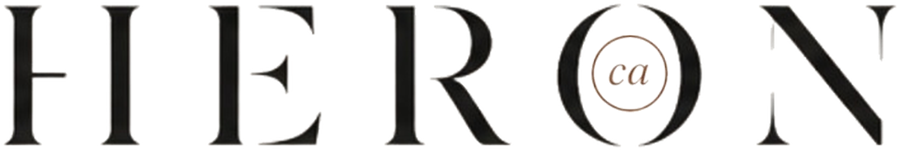
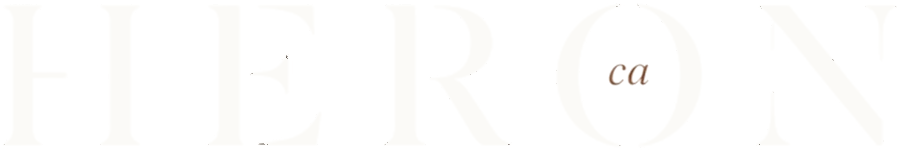
Add files via upload

diff --git a/assets/heron.js b/assets/heron.js
@@ -7,8 +7,8 @@ const HERON = {
     ["eBay", "https://www.ebay.com/usr/heronca", "ebay.com"],
     ["Poshmark", "https://poshmark.com/closet/heronca", "poshmark.com"],
     ["Vinted", "https://www.vinted.com/member/3172628125-heronca1", "vinted.com"],
-    ["Mercari", "", "mercari.com"],
-    ["Depop", "", "depop.com"],
+    ["Mercari", "https://www.mercari.com/u/heronca/", "mercari.com"],
+    ["Depop", "https://www.depop.com/heronca/", "depop.com"],
     ["Etsy", "", "etsy.com"],
     ["Facebook", "", "facebook.com"],
   ],
@@ -72,7 +72,7 @@ function chrome() {
   document.body.insertAdjacentHTML("beforeend", `
   <footer><div class="wrap"><img class="logo-f" src="/assets/heron-footer.png" alt="Heron CA"><div class="caps">Vintage. New. Ours.</div>
   <div class="small">Also find us on</div><div class="links">${HERON.links.filter((l) => l[1]).map(([n, u, d]) => `<a class="plat" href="${u}" target="_blank" rel="noopener"><img src="https://www.google.com/s2/favicons?domain=${d}&sz=64" alt="" width="20" height="20">${n}</a>`).join("")}</div>
-  <div class="small"><a href="/about.html">About</a> · <a href="/about.html#returns">Returns</a> · <a href="/about.html#visit">Visit</a><br>517 Ocean Front Walk, Unit 6, Venice, CA 90291 · Open daily 11:00 to 5:30<br><a href="tel:+13235776677">(323) 577-6677</a> · <a href="mailto:info@heronca.com">info@heronca.com</a></div></div></footer>
+  <div class="small"><a href="/about.html">About</a> · <a href="/about.html#returns">Returns</a> · <a href="/about.html#visit">Visit</a><br>517 Ocean Front Walk, Unit 6, Venice, CA 90291 · Open daily 11:00 to 5:30<br><a href="mailto:info@heronca.com">info@heronca.com</a></div></div></footer>
   <div class="drawer" id="drawer"><div class="shade" onclick="closeBag()"></div><div class="panel">
   <div class="head" style="margin:0"><h2>Your bag</h2><button class="chip" onclick="closeBag()">Close</button></div>
   <div class="rows" id="bagRows"></div><div class="sum" id="bagSum"></div>
@@ -82,6 +82,10 @@ function chrome() {
   const here = new URLSearchParams(location.search).get("c") || "";
   $("#cats").innerHTML = [["", "All"], ...HERON.categories.map((c) => [c, c])].map(([v, l]) => `<a class="${v === here && location.pathname.length <= 11 ? " on" : ""}" href="/${v ? "?c=" + encodeURIComponent(v) : ""}">${l}</a>`).join("");
   renderBag();
+  const tr = $(".marquee .track");
+  if (tr) { let x = 0, last = 0, paused = false; tr.parentElement.onmouseenter = () => paused = true; tr.parentElement.onmouseleave = () => paused = false;
+    const step = (t) => { if (last && !paused) { x -= (t - last) * 0.04; const half = tr.scrollWidth / 2; if (-x >= half) x += half; tr.style.transform = `translateX(${x}px)`; } last = t; requestAnimationFrame(step); };
+    requestAnimationFrame(step); }
 }
 function openBag() { $("#drawer").classList.add("open"); renderBag(); }
 function closeBag() { $("#drawer").classList.remove("open"); }

diff --git a/about.html b/about.html
@@ -5,7 +5,7 @@
 <link rel="icon" href="/assets/heron-ca.png">
 <link rel="preconnect" href="https://fonts.googleapis.com"><link rel="preconnect" href="https://fonts.gstatic.com" crossorigin>
 <link href="https://fonts.googleapis.com/css2?family=Cormorant+Garamond:wght@400;500&family=Jost:wght@400;500&display=swap" rel="stylesheet">
-<link rel="stylesheet" href="/assets/heron.css?v=7"></head>
+<link rel="stylesheet" href="/assets/heron.css?v=8"></head>
 <body>
 <section class="hero"><div class="wrap about"><div class="caps">About Heron CA</div>
   <h1>We go looking so<br>you don't have to.</h1>
@@ -36,7 +36,7 @@
     <div class="cols">
       <div class="box"><h3>Secure checkout</h3><p>Payments run through Square. We never see or store your card details. Card, Apple Pay and Google Pay are accepted.</p></div>
       <div class="box"><h3>Packed by hand, shipped from Venice</h3><p>Every order is packed at the shop and ships from Venice, CA 90291 with tracking. US shipping is free over $80.</p></div>
-      <div class="box"><h3>Ask us anything first</h3><p>Want another photo, a measurement or a closer look at a detail? Call or text (323) 577-6677 or email info@heronca.com before you buy.</p></div>
+      <div class="box"><h3>Ask us anything first</h3><p>Want another photo, a measurement or a closer look at a detail? Email info@heronca.com or message us on Instagram @heron.ca before you buy.</p></div>
     </div>
     <p class="small" style="margin-top:16px">You can also find the same pieces on eBay, Poshmark, Vinted and other marketplaces, where we have a track record with buyers.</p>
   </section>
@@ -51,7 +51,7 @@
     <div class="visit" style="margin:18px 0 0">
       <div><p><b>Heron CA</b><br>Gingerbread Court #6<br>517 Ocean Front Walk, Unit 6<br>Venice, CA 90291</p>
         <p>Open every day, 11:00 to 5:30</p>
-        <p>Call or text <a href="tel:+13235776677">(323) 577-6677</a><br><a href="mailto:info@heronca.com">info@heronca.com</a></p>
+        <p><a href="mailto:info@heronca.com">info@heronca.com</a><br>Instagram <a href="https://www.instagram.com/heron.ca/" target="_blank" rel="noopener">@heron.ca</a></p>
         <a class="btn alt" style="max-width:260px" target="_blank" rel="noopener" href="https://maps.google.com/?q=517+Ocean+Front+Walk+Venice+CA+90291">Get directions</a></div>
       <iframe loading="lazy" title="Map" src="https://maps.google.com/maps?q=517%20Ocean%20Front%20Walk%2C%20Venice%2C%20CA%2090291&z=16&output=embed"></iframe>
     </div>
@@ -60,6 +60,6 @@
 
   <section style="text-align:center"><h2>You won't find it twice.</h2><a class="btn" style="max-width:280px;margin:0 auto" href="/">Shop the stock</a></section>
 </main>
-<script src="/assets/heron.js?v=7"></script>
+<script src="/assets/heron.js?v=8"></script>
 <script>chrome();</script>
 </body></html>

diff --git a/assets/heron.css b/assets/heron.css
@@ -60,7 +60,7 @@ nav.cats a.on,nav.cats a:hover{color:var(--ink);border-bottom-color:var(--ink)}
 .story{max-width:620px;margin:0 auto 72px;text-align:center}
 .story p{font-size:16px;color:var(--muted)}
 footer{background:var(--ink);color:#fff;padding:48px 0 40px;text-align:center}
-footer .logo-f{height:34px;width:auto;margin:0 auto 14px;filter:invert(1)}
+footer .logo-f{height:34px;width:auto;margin:0 auto 14px}
 footer .links{display:flex;flex-wrap:wrap;justify-content:center;gap:8px 22px;margin:14px 0}
 footer .links a{text-decoration:none;opacity:.9}
 footer .links a:hover{opacity:1;text-decoration:underline}
@@ -108,14 +108,13 @@ footer .small{color:rgba(255,255,255,.6)}
 .menu a{text-decoration:none;color:var(--muted)}.menu a:hover{color:var(--ink)}
 @media(max-width:560px){.menu{gap:12px;font-size:13px}.menu a:last-child{display:none}.right{gap:12px}}
 .marquee{overflow:hidden;background:var(--ink);color:#fff;border-bottom:1px solid var(--line)}
-.marquee .track{display:flex;width:max-content;animation:heron-slide 45s linear infinite}
-.marquee:hover .track{animation-play-state:paused}
+.marquee .track{display:flex;width:max-content;will-change:transform}
 .marquee a{display:inline-flex;align-items:center;gap:8px;padding:11px 18px;text-decoration:none;font-size:13.5px;white-space:nowrap}
 .marquee a:hover{text-decoration:underline}
 .marquee img{border-radius:4px;background:#fff}
 .marquee .dot{opacity:.4;align-self:center;font-size:11px}
 @keyframes heron-slide{from{transform:translateX(0)}to{transform:translateX(-50%)}}
-@media(prefers-reduced-motion:reduce){.marquee .track{animation:none}}
+
 .about h1{font-family:'Cormorant Garamond',Georgia,serif;font-weight:400;font-size:clamp(40px,6vw,72px);line-height:1;margin:10px 0 18px}
 .about .lead{font-size:18px;max-width:640px;color:var(--muted)}
 .about section{padding:48px 0;border-top:1px solid var(--line)}

diff --git a/thanks.html b/thanks.html
@@ -3,10 +3,10 @@
 <title>Thank you · Heron CA</title><link rel="icon" href="/assets/heron-ca.png">
 <link rel="preconnect" href="https://fonts.googleapis.com"><link rel="preconnect" href="https://fonts.gstatic.com" crossorigin>
 <link href="https://fonts.googleapis.com/css2?family=Cormorant+Garamond:wght@400;500&family=Jost:wght@400;500&display=swap" rel="stylesheet">
-<link rel="stylesheet" href="/assets/heron.css?v=7"></head>
+<link rel="stylesheet" href="/assets/heron.css?v=8"></head>
 <body>
 <main class="wrap"><section class="story" style="margin-top:56px"><div class="caps">Order received</div><h2>Thank you.</h2>
 <p>Your receipt is on its way to your email. We pack every order by hand at the shop and send tracking as soon as it ships. If you chose pickup, it will be waiting for you at 517 Ocean Front Walk.</p>
 <a class="btn alt" style="max-width:260px;margin:0 auto" href="/">Keep browsing</a></section></main>
-<script src="/assets/heron.js?v=7"></script><script>chrome(); bag.set([]);</script>
+<script src="/assets/heron.js?v=8"></script><script>chrome(); bag.set([]);</script>
 </body></html>

diff --git a/index.html b/index.html
@@ -5,7 +5,7 @@
 <link rel="icon" href="/assets/heron-ca.png">
 <link rel="preconnect" href="https://fonts.googleapis.com"><link rel="preconnect" href="https://fonts.gstatic.com" crossorigin>
 <link href="https://fonts.googleapis.com/css2?family=Cormorant+Garamond:wght@400;500&family=Jost:wght@400;500&display=swap" rel="stylesheet">
-<link rel="stylesheet" href="/assets/heron.css?v=7"></head>
+<link rel="stylesheet" href="/assets/heron.css?v=8"></head>
 <body>
 <section class="hero" id="hero"><div class="wrap"><div class="caps">Venice Beach, California</div>
   <h1>Vintage.<br>New. Ours.</h1><p>Curated vintage, new with tags finds and our own Coastal Apparel. Most pieces are one of one.</p>
@@ -29,7 +29,7 @@
     <p>Every piece is cleaned, checked and picked by hand before it reaches the rack. Most are one of one, so when it's gone, it's gone.</p>
   </section>
 </main>
-<script src="/assets/heron.js?v=7"></script>
+<script src="/assets/heron.js?v=8"></script>
 <script>
 chrome();
 const q = new URLSearchParams(location.search), cat = q.get("c") || "", band = q.get("p") || "";

diff --git a/admin.html b/admin.html
@@ -2,7 +2,7 @@
 <html lang="en"><head><meta charset="utf-8"><meta name="viewport" content="width=device-width,initial-scale=1">
 <meta name="robots" content="noindex"><title>Heron Admin</title><link rel="icon" href="/assets/heron-ca.png">
 <link href="https://fonts.googleapis.com/css2?family=Cormorant+Garamond:wght@500&family=Jost:wght@400;500&display=swap" rel="stylesheet">
-<link rel="stylesheet" href="/assets/heron.css?v=7">
+<link rel="stylesheet" href="/assets/heron.css?v=8">
 <style>
 .tabs{display:flex;gap:6px;margin:18px 0}
 label{display:block;margin:12px 0 4px}
@@ -51,7 +51,7 @@ textarea{min-height:110px}
 </div>
 <div class="toast" id="toast"></div>
 </main>
-<script src="/assets/heron.js?v=7"></script>
+<script src="/assets/heron.js?v=8"></script>
 <script>
 let PW = sessionStorage.getItem("heron-pw") || "", PHOTOS = [], INV = [], ROWS = [];
 const A = (action, data) => api(action, data, { "x-admin-password": PW });

diff --git a/item.html b/item.html
@@ -3,10 +3,10 @@
 <title>Heron CA</title><link rel="icon" href="/assets/heron-ca.png">
 <link rel="preconnect" href="https://fonts.googleapis.com"><link rel="preconnect" href="https://fonts.gstatic.com" crossorigin>
 <link href="https://fonts.googleapis.com/css2?family=Cormorant+Garamond:wght@400;500&family=Jost:wght@400;500&display=swap" rel="stylesheet">
-<link rel="stylesheet" href="/assets/heron.css?v=7"></head>
+<link rel="stylesheet" href="/assets/heron.css?v=8"></head>
 <body>
 <main class="wrap"><div class="item" id="item"><p class="empty">Loading…</p></div></main>
-<script src="/assets/heron.js?v=7"></script>
+<script src="/assets/heron.js?v=8"></script>
 <script>
 chrome();
 const id = new URLSearchParams(location.search).get("id");
